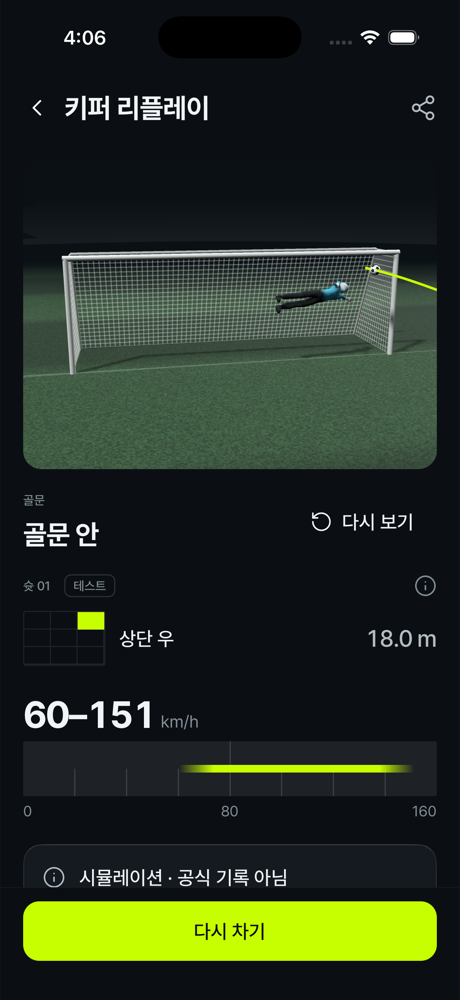
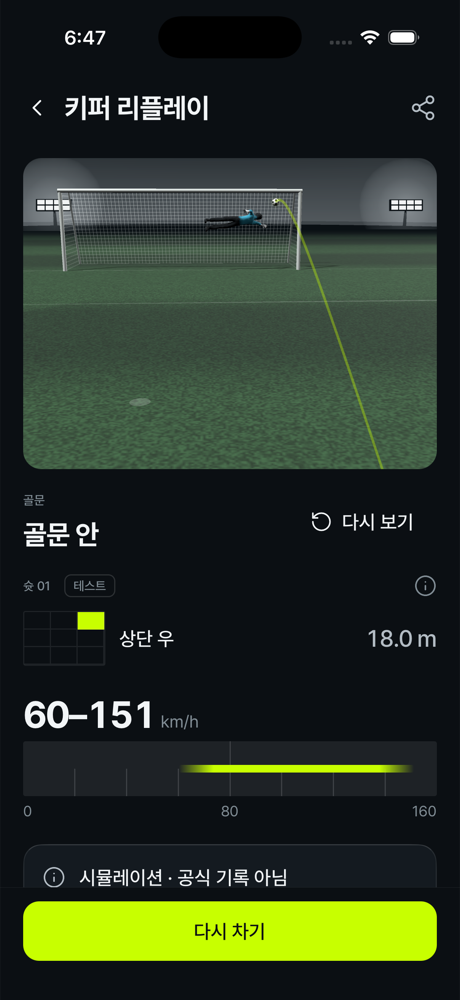
docs(stryke): v5 design record — 15/15 screens re-shot, feedback buttons, design kit
Claude-Session: https://claude.ai/code/session_01YWejWstpsLFcn8hGH8c6eE

diff --git a/stryke/design.html b/stryke/design.html
@@ -22,7 +22,7 @@ ul,ol{color:var(--text2);padding-left:22px}li{margin:4px 0}
 @media(max-width:720px){.pair,.refs{grid-template-columns:1fr}.icons{columns:1}}
 </style></head><body><main>
 <h1>STRYKE — 디자인 기록 v5</h1>
-<p class="lede">앱이 지금 어떻게 보이는지, 왜 그렇게 바꾸는지, 그리고 어디를 눌러 피드백을 남기는지. <span class="meta">생성 2026-09-14 07:09Z · <a href="https://github.com/vxbrandon/stryke/issues?q=is%3Aissue+label%3Adesign-feedback">열린 피드백 보기</a></span></p>
+<p class="lede">앱이 지금 어떻게 보이는지, 왜 그렇게 바꾸는지, 그리고 어디를 눌러 피드백을 남기는지. <span class="meta">생성 2026-09-14 09:49Z · <a href="https://github.com/vxbrandon/stryke/issues?q=is%3Aissue+label%3Adesign-feedback">열린 피드백 보기</a></span></p>
 <nav class="toc"><a href="#log">진단</a><a href="#refs">레퍼런스</a><a href="#screens">화면 (15)</a><a href="#lane3d">3D 레인</a><a href="#kit">디자인 키트</a><a href="#assets">에셋</a><a href="#howto">피드백 방법</a></nav>
 
 <div class="card" id="howto"><h3>피드백 남기는 법 · How to leave feedback</h3>
@@ -154,7 +154,7 @@ ul,ol{color:var(--text2);padding-left:22px}li{margin:4px 0}
   <p class="shows">이번 주 최고, 이번 주 카운트, 최근 세션 카드, 촬영 시작</p>
   <div class="pair">
     <figure><figcaption>BEFORE · v4.1 (13 Sep)</figcaption><img loading="lazy" src="design-v5/img/before-home.png" alt="홈 before"></figure>
-    <figure><figcaption>AFTER · v5 (2026-09-14 07:09)</figcaption><img loading="lazy" src="design-v5/img/after-home.png" alt="홈 after"></figure>
+    <figure><figcaption>AFTER · v5 (2026-09-14 09:49)</figcaption><img loading="lazy" src="design-v5/img/after-home.png" alt="홈 after"></figure>
   </div>
 </section>
 
@@ -238,7 +238,7 @@ ul,ol{color:var(--text2);padding-left:22px}li{margin:4px 0}
   <p class="shows">골대 렌더 위의 궤적, 히어로 그루브, 그 아래 필드 위의 슛 목록</p>
   <div class="pair">
     <figure><figcaption>BEFORE · v4.1 (13 Sep)</figcaption><img loading="lazy" src="design-v5/img/before-session.png" alt="세션 before"></figure>
-    <figure><figcaption>AFTER · v5 (2026-09-14 07:09)</figcaption><img loading="lazy" src="design-v5/img/after-session.png" alt="세션 after"></figure>
+    <figure><figcaption>AFTER · v5 (2026-09-14 09:49)</figcaption><img loading="lazy" src="design-v5/img/after-session.png" alt="세션 after"></figure>
   </div>
 </section>
 
@@ -250,7 +250,7 @@ ul,ol{color:var(--text2);padding-left:22px}li{margin:4px 0}
   <p class="shows">3D 장면과 그 아래 하나의 측정</p>
   <div class="pair">
     <figure><figcaption>BEFORE · v4.1 (13 Sep)</figcaption><img loading="lazy" src="design-v5/img/before-shot.png" alt="슛 before"></figure>
-    <figure><figcaption>AFTER · v5 (2026-09-13 22:53)</figcaption><img loading="lazy" src="design-v5/img/after-shot.png" alt="슛 after"></figure>
+    <figure><figcaption>AFTER · v5 (2026-09-14 09:49)</figcaption><img loading="lazy" src="design-v5/img/after-shot.png" alt="슛 after"></figure>
   </div>
 </section>
 
@@ -262,7 +262,7 @@ ul,ol{color:var(--text2);padding-left:22px}li{margin:4px 0}
   <p class="shows">하나의 눈금 위에 두 밴드 — 이번 슛과 이전 최고</p>
   <div class="pair">
     <figure><figcaption>BEFORE · v4.1 (13 Sep)</figcaption><img loading="lazy" src="design-v5/img/before-compare.png" alt="비교 before"></figure>
-    <figure><figcaption>AFTER · v5 (2026-09-14 07:09)</figcaption><img loading="lazy" src="design-v5/img/after-compare.png" alt="비교 after"></figure>
+    <figure><figcaption>AFTER · v5 (2026-09-14 09:49)</figcaption><img loading="lazy" src="design-v5/img/after-compare.png" alt="비교 after"></figure>
   </div>
 </section>
 
@@ -274,7 +274,7 @@ ul,ol{color:var(--text2);padding-left:22px}li{margin:4px 0}
   <p class="shows">골문 앞 키퍼가 그려진 시뮬레이션과 그 아래 측정 — 다이빙 중간에 찍는다</p>
   <div class="pair">
     <figure><figcaption>BEFORE · v4.1 (13 Sep)</figcaption><img loading="lazy" src="design-v5/img/before-keeper.png" alt="키퍼 before"></figure>
-    <figure><figcaption>AFTER · v5 (2026-09-14 07:09)</figcaption><img loading="lazy" src="design-v5/img/after-keeper.png" alt="키퍼 after"></figure>
+    <figure><figcaption>AFTER · v5 (2026-09-14 09:49)</figcaption><img loading="lazy" src="design-v5/img/after-keeper.png" alt="키퍼 after"></figure>
   </div>
 </section>
 
@@ -384,7 +384,7 @@ ul,ol{color:var(--text2);padding-left:22px}li{margin:4px 0}
 <p>Integration captures use the existing read-only seeded data: shot-mtti1kul-fgtckl and session-mtti1gpr-jpl1xd. Home, session and the remaining actual routes are being re-shot. Important refinement of earlier blank diagnosis: the integrated session remained on its preparation skeleton at the first check, then rendered correctly after an additional 15 seconds without any reload or code change. Early captures can precede GL readiness on this simulator. Do not treat every early blank as a persistent renderer failure; wait for the scene, then inspect. Physical-device launch/performance is not measured here.</p>
 <p>07:20 — Actual keeper screen exposed a gallery-only assumption: the gallery explicitly passed framing=&quot;goal&quot;, but the real screen omits it and uses the keeper default. Fixed the save-subject guard to read <b>framingKind</b>, the resolved framing. Re-verified the actual screen in <code>06-keeper.png</code>: goal ~82% of its 4:3 card, cyan figure, arc entering at the right edge. This integration check is why the final pass uses real routes. Home/shot/session/compare retain their full-arc subject. Final check after fix: <b>729/729 tests</b>, TypeScript passes.</p>
 <p>07:21 — All five actual app frames inspected and accepted: <code>06-home.png</code>, <code>06-shot.png</code> (3D tab), <code>06-session.png</code>, <code>06-compare.png</code> (shot 03 against the prior high-right best, both arcs visible), <code>06-keeper.png</code>. <code>06-before.png</code> is the v3 Home reference; <code>06-card-fit.png</code> is the exact-size gallery proof. Only the keeper simulation allows off-screen launch. All requested changes are implemented; no physical-device performance claim. Simulator mutex released.</p>
-<h3>STATUS</h3>
+<h3>Batch 1 status (complete)</h3>
 <p><b>DONE — 2026-09-14 07:22 simulator time.</b> All six ordered steps verified and committed, including chrome's keeper silhouette/composition correction. Tests <b>729/729</b>, TypeScript clean. Simulator lock released. Production uses procedural turf/goal/ball and the original baked CC0 keeper; the Blender GLB comparison remains dev-only. Device performance remains unmeasured; allow simulator GL warm-up before judging a capture.</p>
 <p>Commits:</p>
 <ul>
@@ -397,7 +397,32 @@ ul,ol{color:var(--text2);padding-left:22px}li{margin:4px 0}
 <li><code>e2897ae</code> — verify the card fit and five live scene frames; correct keeper default framing.</li>
 </ul>
 <p>Final frames: <a href="frames/3d/06-home.png">Home</a>, <a href="frames/3d/06-shot.png">shot</a>, <a href="frames/3d/06-session.png">session</a>, <a href="frames/3d/06-compare.png">compare</a>, <a href="frames/3d/06-keeper.png">keeper</a>. Additional proofs: <a href="frames/3d/06-card-fit.png">362×132 card</a>, <a href="frames/3d/04-silhouette-crop.png">keeper crop</a>, <a href="frames/3d/05-after.png">Blender bake</a>.</p>
-<figure><figcaption>01-after.png</figcaption><img loading="lazy" src="design-v5/img/3d-01-after.png" alt="01-after.png"></figure><figure><figcaption>01-before.png</figcaption><img loading="lazy" src="design-v5/img/3d-01-before.png" alt="01-before.png"></figure><figure><figcaption>01-ground-check.png</figcaption><img loading="lazy" src="design-v5/img/3d-01-ground-check.png" alt="01-ground-check.png"></figure><figure><figcaption>01-keeper-ground.png</figcaption><img loading="lazy" src="design-v5/img/3d-01-keeper-ground.png" alt="01-keeper-ground.png"></figure><figure><figcaption>01-pbr-probe.png</figcaption><img loading="lazy" src="design-v5/img/3d-01-pbr-probe.png" alt="01-pbr-probe.png"></figure><figure><figcaption>01-shadow-off.png</figcaption><img loading="lazy" src="design-v5/img/3d-01-shadow-off.png" alt="01-shadow-off.png"></figure><figure><figcaption>01-shadow-on.png</figcaption><img loading="lazy" src="design-v5/img/3d-01-shadow-on.png" alt="01-shadow-on.png"></figure><figure><figcaption>02-after.png</figcaption><img loading="lazy" src="design-v5/img/3d-02-after.png" alt="02-after.png"></figure><figure><figcaption>02-before.png</figcaption><img loading="lazy" src="design-v5/img/3d-02-before.png" alt="02-before.png"></figure><figure><figcaption>02-detected.png</figcaption><img loading="lazy" src="design-v5/img/3d-02-detected.png" alt="02-detected.png"></figure><figure><figcaption>02-failed.png</figcaption><img loading="lazy" src="design-v5/img/3d-02-failed.png" alt="02-failed.png"></figure><figure><figcaption>02-searching.png</figcaption><img loading="lazy" src="design-v5/img/3d-02-searching.png" alt="02-searching.png"></figure><figure><figcaption>02-verified.png</figcaption><img loading="lazy" src="design-v5/img/3d-02-verified.png" alt="02-verified.png"></figure><figure><figcaption>03-after.png</figcaption><img loading="lazy" src="design-v5/img/3d-03-after.png" alt="03-after.png"></figure><figure><figcaption>03-ball-close.png</figcaption><img loading="lazy" src="design-v5/img/3d-03-ball-close.png" alt="03-ball-close.png"></figure><figure><figcaption>03-before.png</figcaption><img loading="lazy" src="design-v5/img/3d-03-before.png" alt="03-before.png"></figure><figure><figcaption>04-after.png</figcaption><img loading="lazy" src="design-v5/img/3d-04-after.png" alt="04-after.png"></figure><figure><figcaption>04-before.png</figcaption><img loading="lazy" src="design-v5/img/3d-04-before.png" alt="04-before.png"></figure><figure><figcaption>04-idle.png</figcaption><img loading="lazy" src="design-v5/img/3d-04-idle.png" alt="04-idle.png"></figure><figure><figcaption>04-left.png</figcaption><img loading="lazy" src="design-v5/img/3d-04-left.png" alt="04-left.png"></figure><figure><figcaption>04-silhouette-crop.png</figcaption><img loading="lazy" src="design-v5/img/3d-04-silhouette-crop.png" alt="04-silhouette-crop.png"></figure><figure><figcaption>05-after.png</figcaption><img loading="lazy" src="design-v5/img/3d-05-after.png" alt="05-after.png"></figure><figure><figcaption>05-before.png</figcaption><img loading="lazy" src="design-v5/img/3d-05-before.png" alt="05-before.png"></figure><figure><figcaption>06-before.png</figcaption><img loading="lazy" src="design-v5/img/3d-06-before.png" alt="06-before.png"></figure><figure><figcaption>06-card-fit.png</figcaption><img loading="lazy" src="design-v5/img/3d-06-card-fit.png" alt="06-card-fit.png"></figure><figure><figcaption>06-compare.png</figcaption><img loading="lazy" src="design-v5/img/3d-06-compare.png" alt="06-compare.png"></figure><figure><figcaption>06-home.png</figcaption><img loading="lazy" src="design-v5/img/3d-06-home.png" alt="06-home.png"></figure><figure><figcaption>06-keeper.png</figcaption><img loading="lazy" src="design-v5/img/3d-06-keeper.png" alt="06-keeper.png"></figure><figure><figcaption>06-session.png</figcaption><img loading="lazy" src="design-v5/img/3d-06-session.png" alt="06-session.png"></figure><figure><figcaption>06-shot.png</figcaption><img loading="lazy" src="design-v5/img/3d-06-shot.png" alt="06-shot.png"></figure></div>
+<h3>2026-09-14 · Batch 2 · Gap 1</h3>
+<p>Read all picture rows in 09-VERDICTS-V5.md. Earlier queued questions are moot. Q: retain the mast or remove it? A (chrome default): retain a mast outside the viewport's top 12%, replace three discs with a rectangular lamp bank and glare. Q: net planes or lines? A: use mipmapped translucent planes if simulator proof succeeds; otherwise coarsen cords. No further questions. Preserve band weight; no components/app/screens.json edits.</p>
+<p>Gap 1 implementation: 2×4 rectangular white lamp bank, 4 m HALO_RAMP glare, dark mast. Decorative position composed at the outer sides with title-band clearance; actual directional illumination remains fixed. Verifying fresh launch before acceptance.</p>
+<p>Gap 1 accepted: fresh-client Home and session screenshots <code>b2-01-home/session.png</code>; bright rectangular banks and soft glare replace ellipsis heads. Banks clear the upper 12% of both pictures and sit below the session title. Lamp faces aim toward the camera so backplates do not occlude the lamps. Tests 729/729 and TypeScript pass. Lock released.</p>
+<h3>2026-09-14 · Batch 2 · Gap 2</h3>
+<p>Raised default horizon opacity to 0.22, minimum ramp height to 10 m and softened its falloff; added a separate 20 m BackSide glare cylinder behind the lights. Fresh dev-client session capture <code>b2-02-session.png</code> shows the horizon haze and broad light gradients above the turf. Tests 729/729 and TypeScript pass. Lock released after capture.</p>
+<h3>2026-09-14 · Batch 2 · Gap 3</h3>
+<p>Replaced forced one-pixel line cords with four merged translucent panels and a repeating 32×32 RGBA alpha-grid DataTexture. Linear mip filtering averages sub-pixel cords; the 0.12 m cell size and declared mouth/fallback net depth are preserved. Actual Home and session render successfully in <code>b2-03-home.png</code> and <code>b2-03-session.png</code>: thinner translucent net, no bright checkerboard beating. No line fallback needed. Tests 729/729 and TypeScript pass. Lock released.</p>
+<h3>2026-09-14 · Batch 2 · Gap 4</h3>
+<p>Keeper fit now includes 65 <code>getPointAt</code> samples from KEEPER_REACTION_FRAC (0.25) through arrival, matching replay's arc-length parameter. Every fitted save point pays marker-radius padding. The pre-reaction flight may still enter from outside; shot/session/compare/Home containment is unchanged. Fresh actual keeper capture <code>b2-04-keeper.png</code> shows the ball inside at arrival alongside the diving figure, instead of a blunt tracer ending at the cropped post. Goal width reduces to accommodate the requested flight interval. Tests 729/729 and TypeScript pass. Lock released.</p>
+<h3>2026-09-14 · Batch 2 · Gap 5</h3>
+<p>Added <code>composeCardPose</code> and selected it for pitch canvases with letterbox aspect and height ≤180 pt. It uses a lower 0.10 rad elevation, wider side-angle family, 16 pt top/8 pt bottom insets and a minimum 0.04 marker pad including the goal corners. Actual Home <code>b2-05-home.png</code> has roughly 27 pt crossbar clearance and less steep flight/foreground perspective. All four fixture card tests now check the padded visible band, including the full arc and declared net. Tests 729/729 and TypeScript pass. Lock released. No mount/layout edits.</p>
+<h3>2026-09-14 · Batch 2 · Gap 6</h3>
+<p>Widened MAP_AZIMUTH_SPAN_RAD from 0.52 to 1.10 rad (±63°). The held composition still ranks containment first. Fresh actual session <code>b2-06-session.png</code> shows the same 18 m shot crossing diagonally from lower left to upper right instead of standing as a near-vertical pole. Full fixture/union containment suite passes: 729/729 tests, TypeScript clean. Lock released.</p>
+<h3>2026-09-14 · Batch 2 · Gap 7</h3>
+<p>Baked keeper head now uses the dark RenderFloor material colour; procedural fallback head uses its dark core material. Cyan shirt and light gloves are unchanged. Actual keeper frame and native crop <code>b2-07-keeper.png</code>, <code>b2-07-keeper-crop.png</code> show a dark head separating from the white net. Tests 729/729 and TypeScript pass. Lock released.</p>
+<h3>2026-09-14 · Batch 2 · Gap 8</h3>
+<p>Extended the ground span from 160 m to 300 m, retaining the existing solved-depth fog. A trial lighter fog produced a flat band and was rejected before commit. Fresh keeper <code>b2-08-keeper.png</code> and native <code>b2-08-horizon-crop.png</code> show the extended turf dissolving beyond the subject with no finite-edge wedge in the cited left horizon area. Tests 729/729 and TypeScript pass. Lock released.</p>
+<h3>2026-09-14 · Batch 2 · Gap 9</h3>
+<p>Launch contact glow now starts at the ball's 0.11 m radius on both axes, with no 2.3× widening and no camera marker-scale enlargement. Style and band weight can only shrink it. Tracer alpha is <code>coreOpacity × (0.25 + 0.75 × bandWeight)</code>: an initial direct multiplication made the grey comparison nearly disappear, so the final version retains a 25% legibility floor and spends the remaining alpha on band width. Width remains 2.2 pt active / 1.8 pt benchmark / 1.2 pt quiet; confidence gates, dashed projections and ball-glow grants remain intact.</p>
+<p>Fresh dev-client verification under the lock: <code>b2-09-home.png</code>, <code>b2-09-session.png</code>, <code>b2-09-shot.png</code>, <code>b2-09-compare.png</code>, <code>b2-09-keeper.png</code>. Native Home contact crop <code>b2-09-contact-crop.png</code> shows the tiny contact mark replacing the puddle. All five real routes render; keeper ball is inside at arrival, the session is diagonal, and card goal/arc remain contained. App was terminated and opened with the development-client URL before driving these routes. Tests 729/729, TypeScript and diff whitespace pass.</p>
+<p>Also resolved the picture-owned schema drift row: dated amendment in <code>docs/design/v3/02-SYSTEM.md</code> §8 rule 6 records environment light as independent of measurement confidence, cites the judges' posts 761/tracer 515 RGB sums, and narrows the cap to measurement emission. <code>scene-light.ts</code> points to that amendment.</p>
+<h3>STATUS</h3>
+<p><b>DONE — 2026-09-14, batch 2.</b> All nine ordered picture gaps implemented, simulator-verified and separately committed. Final proof set is <code>frames/3d/b2-09-{home,session,shot,compare,keeper}.png</code>; per-gap evidence and native crops remain alongside it. Tests <b>729/729</b>, TypeScript clean. Simulator lock released. Only owned render/doc/frame paths staged; no components/app/screens.json or other lane changes included. Physical-device performance remains unmeasured.</p>
+<p>Batch 2 commits before this final gap: <code>878dabf</code> (mast), <code>4561d0c</code> (haze), <code>add13b6</code> (net), <code>8938225</code> (save ball), <code>60dc3bc</code> (card), <code>4c9b4c7</code> (map angle), <code>60a06b4</code> (head), <code>3a3e041</code> (ground). Gap 9 and this closing status share the commit titled <code>fix(fe-mobile): v5 — reduce launch light to band-weighted contact</code>.</p>
+<figure><figcaption>01-after.png</figcaption><img loading="lazy" src="design-v5/img/3d-01-after.png" alt="01-after.png"></figure><figure><figcaption>01-before.png</figcaption><img loading="lazy" src="design-v5/img/3d-01-before.png" alt="01-before.png"></figure><figure><figcaption>01-ground-check.png</figcaption><img loading="lazy" src="design-v5/img/3d-01-ground-check.png" alt="01-ground-check.png"></figure><figure><figcaption>01-keeper-ground.png</figcaption><img loading="lazy" src="design-v5/img/3d-01-keeper-ground.png" alt="01-keeper-ground.png"></figure><figure><figcaption>01-pbr-probe.png</figcaption><img loading="lazy" src="design-v5/img/3d-01-pbr-probe.png" alt="01-pbr-probe.png"></figure><figure><figcaption>01-shadow-off.png</figcaption><img loading="lazy" src="design-v5/img/3d-01-shadow-off.png" alt="01-shadow-off.png"></figure><figure><figcaption>01-shadow-on.png</figcaption><img loading="lazy" src="design-v5/img/3d-01-shadow-on.png" alt="01-shadow-on.png"></figure><figure><figcaption>02-after.png</figcaption><img loading="lazy" src="design-v5/img/3d-02-after.png" alt="02-after.png"></figure><figure><figcaption>02-before.png</figcaption><img loading="lazy" src="design-v5/img/3d-02-before.png" alt="02-before.png"></figure><figure><figcaption>02-detected.png</figcaption><img loading="lazy" src="design-v5/img/3d-02-detected.png" alt="02-detected.png"></figure><figure><figcaption>02-failed.png</figcaption><img loading="lazy" src="design-v5/img/3d-02-failed.png" alt="02-failed.png"></figure><figure><figcaption>02-searching.png</figcaption><img loading="lazy" src="design-v5/img/3d-02-searching.png" alt="02-searching.png"></figure><figure><figcaption>02-verified.png</figcaption><img loading="lazy" src="design-v5/img/3d-02-verified.png" alt="02-verified.png"></figure><figure><figcaption>03-after.png</figcaption><img loading="lazy" src="design-v5/img/3d-03-after.png" alt="03-after.png"></figure><figure><figcaption>03-ball-close.png</figcaption><img loading="lazy" src="design-v5/img/3d-03-ball-close.png" alt="03-ball-close.png"></figure><figure><figcaption>03-before.png</figcaption><img loading="lazy" src="design-v5/img/3d-03-before.png" alt="03-before.png"></figure><figure><figcaption>04-after.png</figcaption><img loading="lazy" src="design-v5/img/3d-04-after.png" alt="04-after.png"></figure><figure><figcaption>04-before.png</figcaption><img loading="lazy" src="design-v5/img/3d-04-before.png" alt="04-before.png"></figure><figure><figcaption>04-idle.png</figcaption><img loading="lazy" src="design-v5/img/3d-04-idle.png" alt="04-idle.png"></figure><figure><figcaption>04-left.png</figcaption><img loading="lazy" src="design-v5/img/3d-04-left.png" alt="04-left.png"></figure><figure><figcaption>04-silhouette-crop.png</figcaption><img loading="lazy" src="design-v5/img/3d-04-silhouette-crop.png" alt="04-silhouette-crop.png"></figure><figure><figcaption>05-after.png</figcaption><img loading="lazy" src="design-v5/img/3d-05-after.png" alt="05-after.png"></figure><figure><figcaption>05-before.png</figcaption><img loading="lazy" src="design-v5/img/3d-05-before.png" alt="05-before.png"></figure><figure><figcaption>06-before.png</figcaption><img loading="lazy" src="design-v5/img/3d-06-before.png" alt="06-before.png"></figure><figure><figcaption>06-card-fit.png</figcaption><img loading="lazy" src="design-v5/img/3d-06-card-fit.png" alt="06-card-fit.png"></figure><figure><figcaption>06-compare.png</figcaption><img loading="lazy" src="design-v5/img/3d-06-compare.png" alt="06-compare.png"></figure><figure><figcaption>06-home.png</figcaption><img loading="lazy" src="design-v5/img/3d-06-home.png" alt="06-home.png"></figure><figure><figcaption>06-keeper.png</figcaption><img loading="lazy" src="design-v5/img/3d-06-keeper.png" alt="06-keeper.png"></figure><figure><figcaption>06-session.png</figcaption><img loading="lazy" src="design-v5/img/3d-06-session.png" alt="06-session.png"></figure><figure><figcaption>06-shot.png</figcaption><img loading="lazy" src="design-v5/img/3d-06-shot.png" alt="06-shot.png"></figure><figure><figcaption>b2-01-home.png</figcaption><img loading="lazy" src="design-v5/img/3d-b2-01-home.png" alt="b2-01-home.png"></figure><figure><figcaption>b2-01-session.png</figcaption><img loading="lazy" src="design-v5/img/3d-b2-01-session.png" alt="b2-01-session.png"></figure><figure><figcaption>b2-02-session.png</figcaption><img loading="lazy" src="design-v5/img/3d-b2-02-session.png" alt="b2-02-session.png"></figure><figure><figcaption>b2-03-home.png</figcaption><img loading="lazy" src="design-v5/img/3d-b2-03-home.png" alt="b2-03-home.png"></figure><figure><figcaption>b2-03-session.png</figcaption><img loading="lazy" src="design-v5/img/3d-b2-03-session.png" alt="b2-03-session.png"></figure><figure><figcaption>b2-04-keeper.png</figcaption><img loading="lazy" src="design-v5/img/3d-b2-04-keeper.png" alt="b2-04-keeper.png"></figure><figure><figcaption>b2-05-home.png</figcaption><img loading="lazy" src="design-v5/img/3d-b2-05-home.png" alt="b2-05-home.png"></figure><figure><figcaption>b2-06-session.png</figcaption><img loading="lazy" src="design-v5/img/3d-b2-06-session.png" alt="b2-06-session.png"></figure><figure><figcaption>b2-07-keeper-crop.png</figcaption><img loading="lazy" src="design-v5/img/3d-b2-07-keeper-crop.png" alt="b2-07-keeper-crop.png"></figure><figure><figcaption>b2-07-keeper.png</figcaption><img loading="lazy" src="design-v5/img/3d-b2-07-keeper.png" alt="b2-07-keeper.png"></figure><figure><figcaption>b2-08-horizon-crop.png</figcaption><img loading="lazy" src="design-v5/img/3d-b2-08-horizon-crop.png" alt="b2-08-horizon-crop.png"></figure><figure><figcaption>b2-08-keeper.png</figcaption><img loading="lazy" src="design-v5/img/3d-b2-08-keeper.png" alt="b2-08-keeper.png"></figure><figure><figcaption>b2-09-compare.png</figcaption><img loading="lazy" src="design-v5/img/3d-b2-09-compare.png" alt="b2-09-compare.png"></figure><figure><figcaption>b2-09-contact-crop.png</figcaption><img loading="lazy" src="design-v5/img/3d-b2-09-contact-crop.png" alt="b2-09-contact-crop.png"></figure><figure><figcaption>b2-09-home.png</figcaption><img loading="lazy" src="design-v5/img/3d-b2-09-home.png" alt="b2-09-home.png"></figure><figure><figcaption>b2-09-keeper.png</figcaption><img loading="lazy" src="design-v5/img/3d-b2-09-keeper.png" alt="b2-09-keeper.png"></figure><figure><figcaption>b2-09-session.png</figcaption><img loading="lazy" src="design-v5/img/3d-b2-09-session.png" alt="b2-09-session.png"></figure><figure><figcaption>b2-09-shot.png</figcaption><img loading="lazy" src="design-v5/img/3d-b2-09-shot.png" alt="b2-09-shot.png"></figure></div>
 
 <h2 id="kit">디자인 키트 — 코드에서 읽어 온 값</h2>
 <h4>색 (dark palette, <code>src/constants/theme.ts</code>)</h4>
